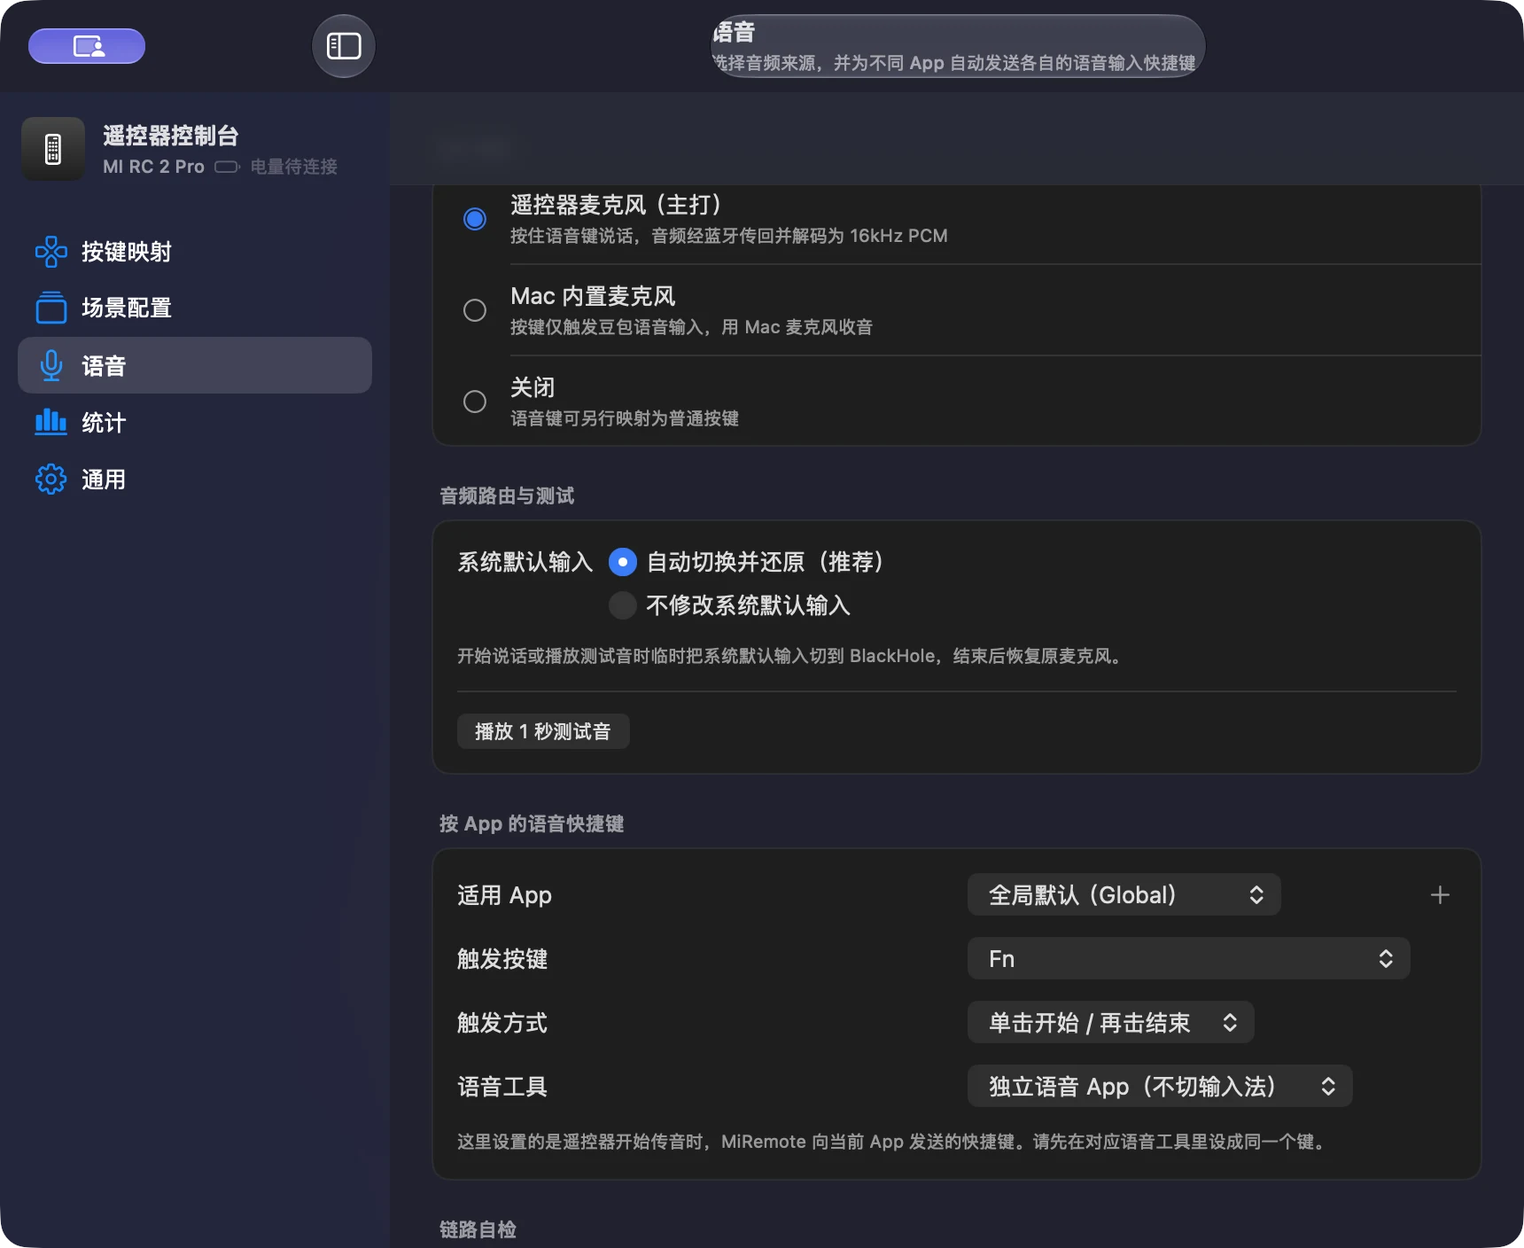
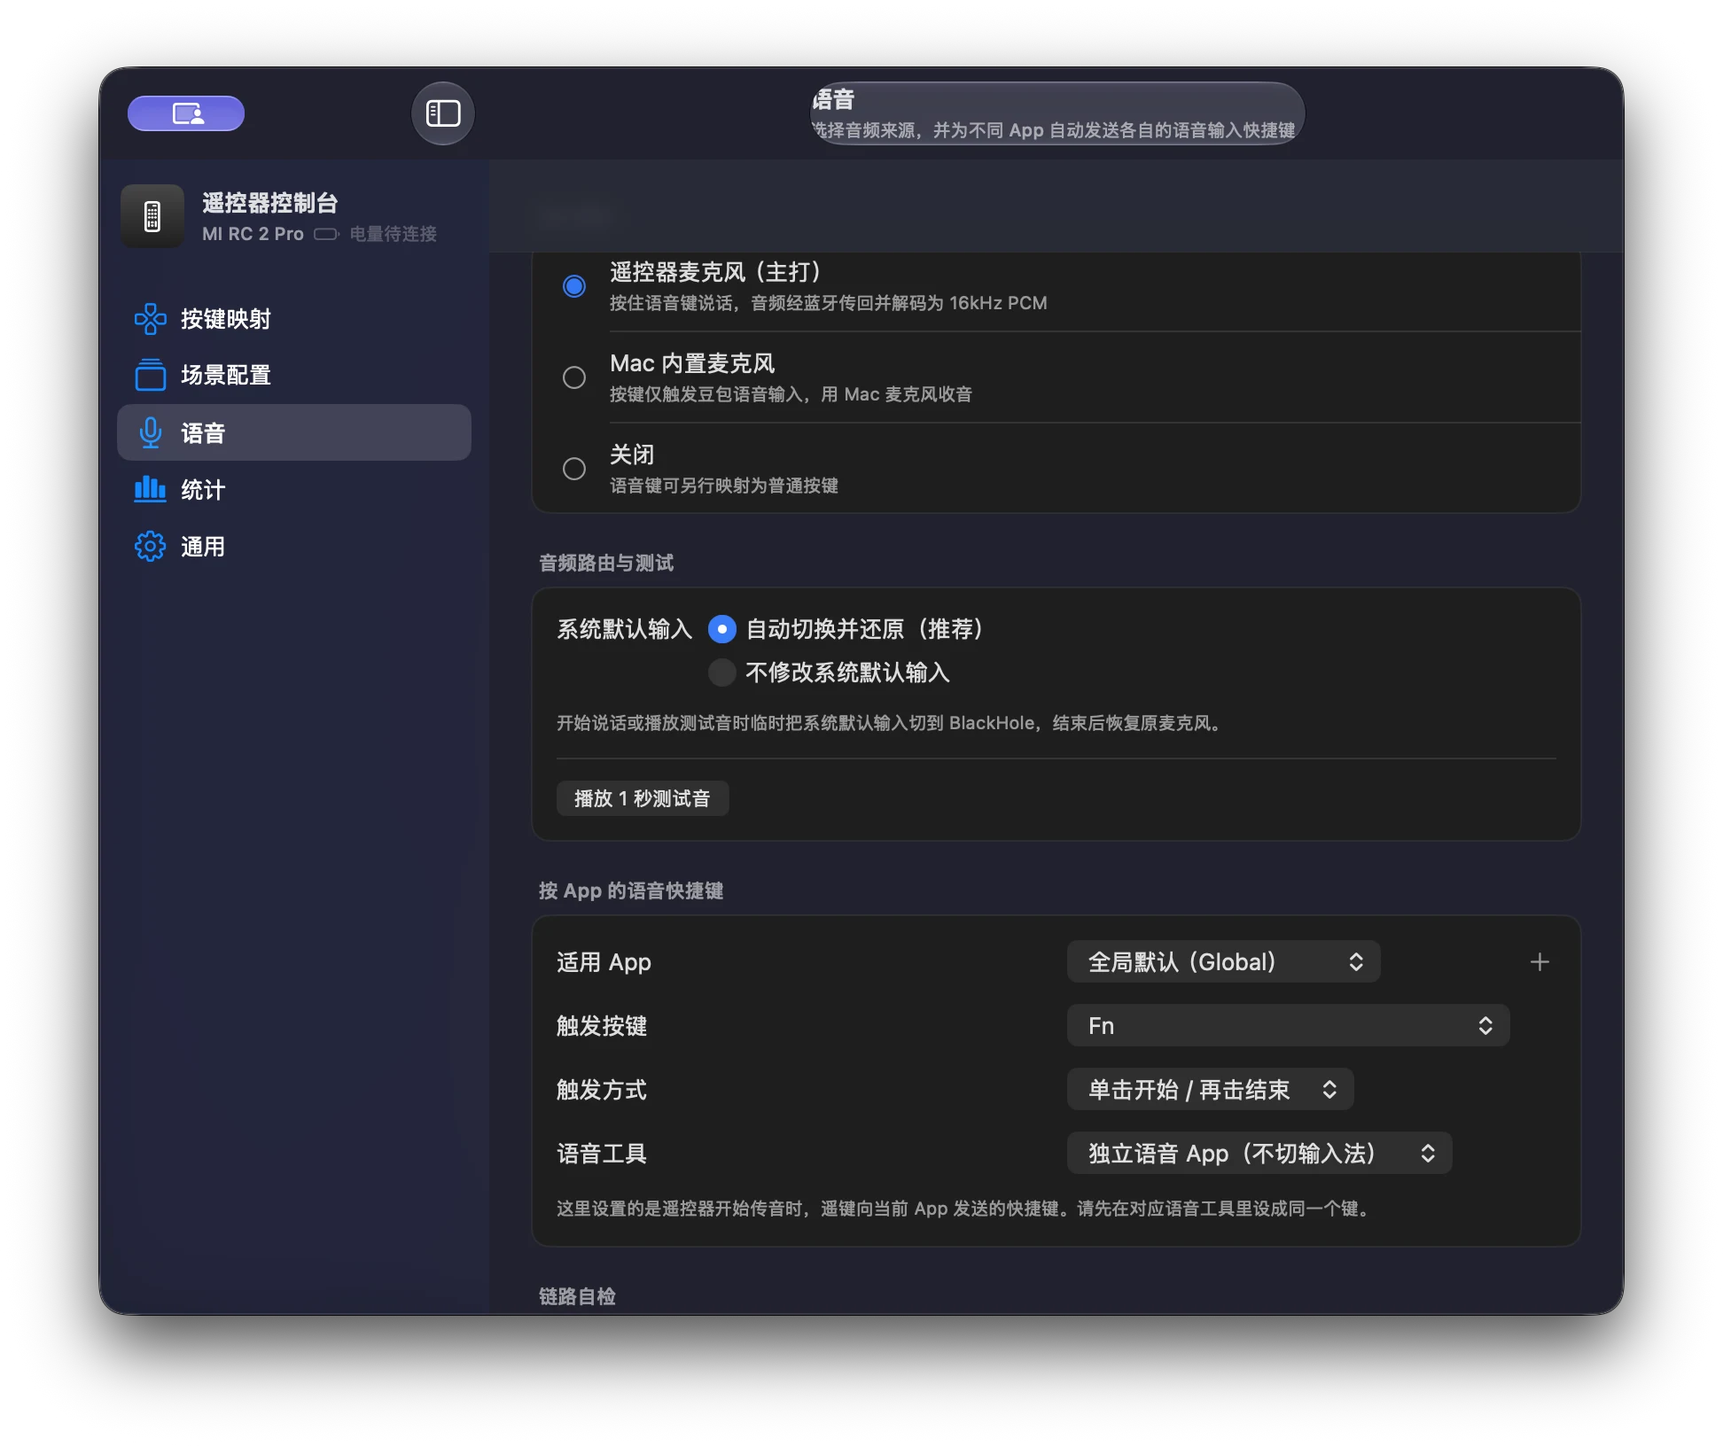
feat: 将应用更名为遥键 RemoKey 并更新 Bundle ID

diff --git a/Sources/MiRemote/UI/GUIAppDelegate.swift b/Sources/MiRemote/UI/GUIAppDelegate.swift
@@ -72,22 +72,22 @@ final class GUIAppDelegate: NSObject, NSApplicationDelegate, NSWindowDelegate {
         let mainMenu = NSMenu()
 
         let appRoot = NSMenuItem()
-        let appMenu = NSMenu(title: "MiRemote")
-        let about = NSMenuItem(title: "关于 MiRemote",
+        let appMenu = NSMenu(title: "遥键")
+        let about = NSMenuItem(title: "关于遥键",
                                action: #selector(NSApplication.orderFrontStandardAboutPanel(_:)),
                                keyEquivalent: "")
         about.target = NSApp
         appMenu.addItem(about)
         appMenu.addItem(.separator())
 
-        let hide = NSMenuItem(title: "隐藏 MiRemote",
+        let hide = NSMenuItem(title: "隐藏遥键",
                               action: #selector(NSApplication.hide(_:)),
                               keyEquivalent: "h")
         hide.target = NSApp
         appMenu.addItem(hide)
         appMenu.addItem(.separator())
 
-        let quit = NSMenuItem(title: "退出 MiRemote",
+        let quit = NSMenuItem(title: "退出遥键",
                               action: #selector(NSApplication.terminate(_:)),
                               keyEquivalent: "q")
         quit.target = NSApp
@@ -121,7 +121,7 @@ final class GUIAppDelegate: NSObject, NSApplicationDelegate, NSWindowDelegate {
         // 退出确认（可在通用页关闭）：仅在引擎真的在跑时提示。
         guard model.exitConfirm, let services, services.started, !uiPreview else { return .terminateNow }
         let alert = NSAlert()
-        alert.messageText = "退出 MiRemote？"
+        alert.messageText = "退出遥键？"
         alert.informativeText = "退出后遥控器将不再控制这台 Mac，按键中转会恢复，真实键盘不受影响。"
         alert.addButton(withTitle: "退出")
         alert.addButton(withTitle: "取消")
@@ -142,7 +142,7 @@ final class GUIAppDelegate: NSObject, NSApplicationDelegate, NSWindowDelegate {
                              styleMask: [.titled, .closable, .miniaturizable, .resizable],
                              backing: .buffered, defer: false)
             w.contentMinSize = NSSize(width: 760, height: 560)
-            w.title = "MiRemote 设置"
+            w.title = "遥键设置"
             w.titleVisibility = .hidden
             w.contentView = NSHostingView(rootView: root)
             w.center()
@@ -159,11 +159,11 @@ final class GUIAppDelegate: NSObject, NSApplicationDelegate, NSWindowDelegate {
         let d = UserDefaults.standard
         if !d.bool(forKey: Prefs.closeNoticeAcknowledged) {
             let alert = NSAlert()
-            alert.messageText = "MiRemote 常驻 Dock 与菜单栏，继续工作"
+            alert.messageText = "遥键常驻 Dock 与菜单栏，继续工作"
             alert.informativeText = """
-            关闭窗口不会退出：MiRemote 会保留在 Dock 和菜单栏，继续控制遥控器。
-            · 想再打开设置：点 Dock 中的 MiRemote，或点菜单栏遥控器图标。
-            · 想真正退出：菜单栏图标 →「退出 MiRemote」（退出时自动恢复真实键盘）。
+            关闭窗口不会退出：遥键会保留在 Dock 和菜单栏，继续控制遥控器。
+            · 想再打开设置：点 Dock 中的遥键，或点菜单栏遥控器图标。
+            · 想真正退出：菜单栏图标 →「退出遥键」（退出时自动恢复真实键盘）。
             · 卸载前请务必先退出，否则按键中转可能残留、影响真实键盘。
             """
             alert.showsSuppressionButton = true

diff --git a/Sources/MiRemote/App/main.swift b/Sources/MiRemote/App/main.swift
@@ -1,7 +1,7 @@
 import Foundation
 import AppKit
 
-// MiRemote 入口。
+// RemoKey 入口（Swift 模块沿用内部名称 MiRemote）。
 // - 纯 CLI 子命令直接执行后退出，不创建 NSApplication。
 // - 显式服务参数保持原 CLI 行为。
 // - 无参数（或 --ui-preview）进入 SwiftUI App。
@@ -9,6 +9,10 @@ import AppKit
 // 纯逻辑自检不触碰 BLE/hidutil，允许在 GUI 正在运行时并行执行（打包校验需要）。
 let startupArgs = Array(CommandLine.arguments.dropFirst())
 if startupArgs == ["--self-test"] { exit(SelfTest.run()) }
+
+// 新 bundle id 首次启动时继承旧版 App 偏好。配置、统计和 hooks 继续使用
+// Application Support/MiRemote 兼容目录，因此无需移动用户文件。
+AppIdentity.migrateLegacyPreferencesIfNeeded()
 
 // 单实例锁在参数解析【之后】获取：--help / --doctor / --list-audio-devices /
 // --login-item status 等只读子命令在解析中就 exit，不与运行中的实例争用
@@ -36,7 +40,7 @@ while let argument = args.first {
         }
         let report = HealthMonitor.runRepair(
             skipResidualCleanup: HealthMonitor.anotherInstanceRunning())
-        print("MiRemote 一键体检")
+        print("RemoKey 一键体检")
         report.lines().forEach { print($0) }
         print(report.needsUser
               ? "—— 存在需要你处理的项，请按上面的指引操作后重跑 --doctor。"
@@ -196,7 +200,7 @@ if !uiPreview {
         if owner?.mode == "cli" {
             // CLI 服务实例明确丢弃 show_ui 事件——发了也弹不出窗口，给真实提示。
             let pid = owner!.pid
-            print("MiRemote 正以命令行模式运行（PID \(pid)），请先停止它（Ctrl+C 或 kill \(pid)）再启动本实例。")
+            print("RemoKey 正以命令行模式运行（PID \(pid)），请先停止它（Ctrl+C 或 kill \(pid)）再启动本实例。")
         } else {
             // 双击 .app 再次打开＝想看设置窗口：通知 GUI 主实例弹出 UI
             //（菜单栏优先形态的兜底入口）。owner 未知（旧版锁文件）也尽力而为。

diff --git a/Sources/MiRemote/UI/VoicePage.swift b/Sources/MiRemote/UI/VoicePage.swift
@@ -159,7 +159,7 @@ struct VoicePage: View {
                                 }
                             }
                         }
-                        Text("这里设置的是遥控器开始传音时，MiRemote 向当前 App 发送的快捷键。请先在对应语音工具里设成同一个键。")
+                        Text("这里设置的是遥控器开始传音时，遥键向当前 App 发送的快捷键。请先在对应语音工具里设成同一个键。")
                             .font(.footnote).foregroundStyle(.secondary)
                     }
                     .padding(Spacing.cardPadding)
@@ -284,7 +284,7 @@ struct VoicePage: View {
                 Text("2. 找到「语音 / 麦克风」设置项。")
                 Text(model.voiceRoutingMode == .manual
                      ? "3. 把麦克风（音频输入设备）固定选择为 **BlackHole 2ch**。"
-                     : "3. 麦克风可保持“系统默认”；MiRemote 会在说话时临时切到 **BlackHole 2ch**。")
+                     : "3. 麦克风可保持“系统默认”；遥键会在说话时临时切到 **BlackHole 2ch**。")
                 Text("4. 回到这里按住遥控器语音键说话——上方自检第 3 项变绿即成功。")
                 doubaoMicIllustration
                 Text(model.voiceRoutingMode == .manual
@@ -361,7 +361,7 @@ struct VoicePage: View {
         case .automatic:
             return "开始说话或播放测试音时临时把系统默认输入切到 BlackHole，结束后恢复原麦克风。"
         case .manual:
-            return "MiRemote 不修改系统默认输入；请在豆包、Typeless 或 superwhisper 中固定选择 BlackHole。"
+            return "遥键不修改系统默认输入；请在豆包、Typeless 或 superwhisper 中固定选择 BlackHole。"
         }
     }
 

diff --git a/Sources/MiRemote/Integrations/ClaudeHooks.swift b/Sources/MiRemote/Integrations/ClaudeHooks.swift
@@ -25,10 +25,10 @@ enum ClaudeHooks {
     }
 
     /// 发信端脚本（与仓库 scripts/miremote-notify.sh 同源；改动需同步）。
-    /// MiRemote 未运行时静默退出，nc 超时 1s，绝不阻塞 Claude Code。
+    /// RemoKey 未运行时静默退出，nc 超时 1s，绝不阻塞 Claude Code。
     static let scriptBody = """
     #!/bin/bash
-    # MiRemote hook 发信端：把 Claude Code hook 事件转成一行 JSON 发到本地 socket。
+    # RemoKey hook 发信端：把 Claude Code hook 事件转成一行 JSON 发到本地 socket。
     # 用法：miremote-notify.sh <waiting_approval|agent_done|agent_needs_input>（hook stdin 喂 JSON）
     EVENT="${1:-waiting_approval}"
     SOCK="$HOME/Library/Application Support/MiRemote/events.sock"
@@ -160,7 +160,7 @@ enum ClaudeHooks {
         guard save(inject(into: root, scriptPath: script.path), to: settings) else {
             return ("安装失败：\(settings.path) 写入失败。", 1)
         }
-        return ("已安装：Claude Code 等待批准/需要输入/任务完成时将通知 MiRemote（备份 settings.json.miremote-bak）。", 0)
+        return ("已安装：Claude Code 等待批准/需要输入/任务完成时将通知遥键（备份 settings.json.miremote-bak）。", 0)
     }
 
     static func uninstall(settings: URL = settingsURL, script: URL = scriptURL) -> (message: String, code: Int32) {
@@ -175,7 +175,7 @@ enum ClaudeHooks {
             return ("卸载失败：\(settings.path) 写入失败。", 1)
         }
         try? FileManager.default.removeItem(at: script)
-        return ("已卸载 MiRemote 的 Claude Code hooks（其它 hooks 未动）。", 0)
+        return ("已卸载遥键的 Claude Code hooks（其它 hooks 未动）。", 0)
     }
 
     static func status(settings: URL = settingsURL) -> String {

diff --git a/Sources/MiRemote/UI/OverlayCenter.swift b/Sources/MiRemote/UI/OverlayCenter.swift
@@ -29,7 +29,7 @@ enum SystemMenuCatalog {
         .init(title: "聚焦编辑区", symbol: "cursorarrow.and.square.on.square.dashed", action: .focusInput),
         .init(title: "播放 / 暂停", symbol: "playpause",                   action: .system("play_pause")),
         .init(title: "静音",       symbol: "speaker.slash",               action: .system("mute")),
-        .init(title: "打开 MiRemote 设置", symbol: "gearshape",           action: .overlay("open_settings")),
+        .init(title: "打开遥键设置", symbol: "gearshape",                 action: .overlay("open_settings")),
         .init(title: "退出当前 App", symbol: "escape",                    action: .system("quit_frontmost_app"), dangerous: true),
         .init(title: "锁屏",       symbol: "lock",                        action: .system("lock_screen"), dangerous: true),
         .init(title: "睡眠",       symbol: "moon.zzz",                    action: .system("display_sleep"), dangerous: true),
@@ -198,7 +198,7 @@ final class OverlayCenter {
 
     /// ActionRunner.onOverlay 入口（主线程）。同名浮层已开 → 关闭（同键 toggle 兜底；
     /// 正常路径下浮层打开后按键已被捕获，走 handleKey 关闭）。
-    /// 「打开 MiRemote 设置」可绑定动作（菜单栏优先形态的遥控入口，GUIAppDelegate 接线）。
+    /// 「打开遥键设置」可绑定动作（菜单栏优先形态的遥控入口，GUIAppDelegate 接线）。
     var onOpenSettings: (() -> Void)?
 
     func open(_ name: String) {

diff --git a/Sources/MiRemote/App/AppIdentity.swift b/Sources/MiRemote/App/AppIdentity.swift
@@ -1,0 +1,32 @@
+import Foundation
+
+/// 对外品牌与 bundle 身份集中在这里；Swift 模块和历史数据目录继续保留内部名称 MiRemote。
+enum AppIdentity {
+    static let englishName = "RemoKey"
+    static let chineseName = "遥键"
+    static let bundleIdentifier = "com.remokey.controller"
+    static let legacyBundleIdentifier = "com.miremote.controller"
+
+    private static let preferencesMigrationKey = "RemoKey.didMigrateMiRemotePreferences"
+
+    /// Bundle ID 改名会切换 UserDefaults domain。首次启动新身份时复制旧偏好，
+    /// 新 domain 已有的值优先，避免覆盖用户在 RemoKey 中做出的新设置。
+    static func migrateLegacyPreferencesIfNeeded(
+        defaults: UserDefaults = .standard,
+        currentBundleIdentifier: String? = Bundle.main.bundleIdentifier,
+        legacyDomain: String = legacyBundleIdentifier,
+        targetDomain: String = bundleIdentifier
+    ) {
+        guard currentBundleIdentifier == targetDomain,
+              !defaults.bool(forKey: preferencesMigrationKey)
+        else { return }
+
+        let legacy = defaults.persistentDomain(forName: legacyDomain) ?? [:]
+        let current = defaults.persistentDomain(forName: targetDomain) ?? [:]
+        if !legacy.isEmpty {
+            let merged = legacy.merging(current) { _, newValue in newValue }
+            defaults.setPersistentDomain(merged, forName: targetDomain)
+        }
+        defaults.set(true, forKey: preferencesMigrationKey)
+    }
+}

diff --git a/Sources/MiRemote/UI/GeneralPage.swift b/Sources/MiRemote/UI/GeneralPage.swift
@@ -125,15 +125,15 @@ struct GeneralPage: View {
                         Button("打开") { onShowHealthCheck() }.controlSize(.small)
                     }
                     RowDivider()
-                    SettingsRow(icon: "escape", title: "退出 MiRemote",
+                    SettingsRow(icon: "escape", title: "退出遥键",
                                 subtitle: "恢复按键中转后完全退出。点窗口关闭按钮只是转入后台") {
                         Button("退出") { NSApp.terminate(nil) }.controlSize(.small)
                     }
                     RowDivider()
                     DisclosureGroup {
                         VStack(alignment: .leading, spacing: 6) {
-                            Text("1. 先从菜单栏「退出 MiRemote」——退出时会清空按键中转、恢复真实键盘。直接删 App 可能残留中转污染键盘。")
-                            Text("2. 把 MiRemote.app 拖到废纸篓。")
+                            Text("1. 先从菜单栏「退出遥键」——退出时会清空按键中转、恢复真实键盘。直接删 App 可能残留中转污染键盘。")
+                            Text("2. 把 RemoKey.app 拖到废纸篓。")
                             Text("3. 可选：删除配置目录 ~/Library/Application Support/MiRemote/。")
                             HStack {
                                 Button("复制清理命令") {

diff --git a/Sources/MiRemote/UI/OnboardingWizard.swift b/Sources/MiRemote/UI/OnboardingWizard.swift
@@ -151,7 +151,7 @@ struct OnboardingWizard: View {
     private var permissionStep: some View {
         VStack(alignment: .leading, spacing: 10) {
             Text("第 1 步 · 授权").font(.title3.bold())
-            Text("MiRemote 需要三项系统权限才能接管遥控器按键。输入监控和辅助功能授权后，请点“退出并重新打开”。")
+            Text("遥键需要三项系统权限才能接管遥控器按键。输入监控和辅助功能授权后，请点“退出并重新打开”。")
                 .font(.caption).foregroundStyle(.secondary)
             PermissionCheckRow(icon: "antenna.radiowaves.left.and.right", title: "蓝牙",
                                explain: "连接遥控器、接收语音音频",
@@ -227,7 +227,7 @@ struct OnboardingWizard: View {
             let p = Process()
             p.executableURL = URL(fileURLWithPath: "/usr/bin/osascript")
             p.arguments = ["-e",
-                "do shell script \"killall coreaudiod\" with administrator privileges with prompt \"MiRemote 需要重启音频服务以加载 BlackHole 驱动\""]
+                "do shell script \"killall coreaudiod\" with administrator privileges with prompt \"遥键需要重启音频服务以加载 BlackHole 驱动\""]
             var ok = false
             do {
                 try p.run()

diff --git a/Sources/MiRemote/UI/StatusItemController.swift b/Sources/MiRemote/UI/StatusItemController.swift
@@ -98,7 +98,7 @@ final class StatusItemController: NSObject, NSPopoverDelegate {
 
     /// tooltip 与浮动角标同步的完整语义描述（P3/P9）。
     private func tooltipText() -> String {
-        var parts: [String] = ["MiRemote"]
+        var parts: [String] = ["遥键"]
         if model.degraded { parts.append("故障：按键通道异常，打开体检修复") }
         if model.voiceActive { parts.append("录音中") }
         if model.mouseModeActive { parts.append("鼠标模式") }
@@ -189,7 +189,7 @@ final class StatusItemController: NSObject, NSPopoverDelegate {
         health.target = self
         menu.addItem(health)
         menu.addItem(.separator())
-        let quit = NSMenuItem(title: "退出 MiRemote", action: #selector(quit), keyEquivalent: "q")
+        let quit = NSMenuItem(title: "退出遥键", action: #selector(quit), keyEquivalent: "q")
         quit.target = self
         menu.addItem(quit)
         return menu
@@ -245,7 +245,7 @@ struct StatusPanelView: View {
                 Button(role: .destructive, action: onQuit) {
                     Image(systemName: "power")
                 }
-                .help("退出 MiRemote（恢复真实键盘）")
+                .help("退出遥键（恢复真实键盘）")
             }
             .controlSize(.small)
         }

diff --git a/Sources/MiRemote/UI/HealthCheckSheet.swift b/Sources/MiRemote/UI/HealthCheckSheet.swift
@@ -119,14 +119,14 @@ struct HealthCheckSheet: View {
                 let r = EnvironmentCheck.accessibility()
                 return r.state == .granted
                     ? (.ok, "", nil, nil)
-                    : (.bad, "按键无法注入。去系统设置勾选 MiRemote", "去授权",
+                    : (.bad, "按键无法注入。去系统设置勾选遥键", "去授权",
                        { if let u = r.guideURL { NSWorkspace.shared.open(u) } })
             }),
             ("im", {
                 let r = EnvironmentCheck.inputMonitoring()
                 return r.state == .granted
                     ? (.ok, "", nil, nil)
-                    : (.bad, "无法读取遥控器按键。去系统设置勾选 MiRemote", "去授权",
+                    : (.bad, "无法读取遥控器按键。去系统设置勾选遥键", "去授权",
                        { if let u = r.guideURL { NSWorkspace.shared.open(u) } })
             }),
             ("remote", {

diff --git a/Sources/MiRemote/UI/ProfilePage.swift b/Sources/MiRemote/UI/ProfilePage.swift
@@ -143,7 +143,7 @@ struct ProfilePage: View {
         let panel = NSOpenPanel()
         panel.allowedContentTypes = [.json]
         panel.allowsMultipleSelection = false
-        panel.message = "选择 MiRemote 映射配置"
+        panel.message = "选择遥键映射配置"
         guard panel.runModal() == .OK, let url = panel.url else { return }
         do {
             let imported = try JSONDecoder().decode(MappingConfig.self, from: Data(contentsOf: url))
@@ -163,7 +163,7 @@ struct ProfilePage: View {
     private func exportJSON() {
         let panel = NSSavePanel()
         panel.allowedContentTypes = [.json]
-        panel.nameFieldStringValue = "MiRemote-config.json"
+        panel.nameFieldStringValue = "RemoKey-config.json"
         panel.message = "导出当前全部映射与 Profile"
         guard panel.runModal() == .OK, let url = panel.url else { return }
         guard ConfigStore.save(model.config, to: url) else {

diff --git a/Sources/MiRemote/App/HealthMonitor.swift b/Sources/MiRemote/App/HealthMonitor.swift
@@ -406,7 +406,7 @@ final class HealthMonitor: @unchecked Sendable {
             }
         } else if skipResidualCleanup {
             items.append(RepairItem(name: "hidutil 映射残留", status: .info,
-                                    message: "检测到另一个 MiRemote 实例正在运行，映射在用，跳过残留清理",
+                                    message: "检测到另一个遥键实例正在运行，映射在用，跳过残留清理",
                                     guideURL: nil))
         } else {
             switch KeyRemapper.cleanResidualMapping() {
